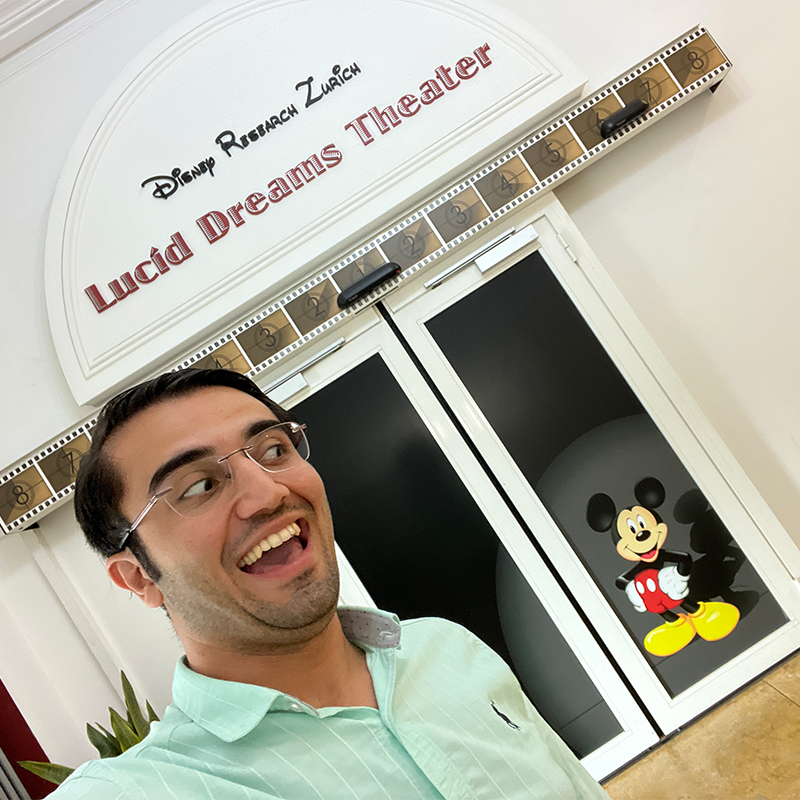
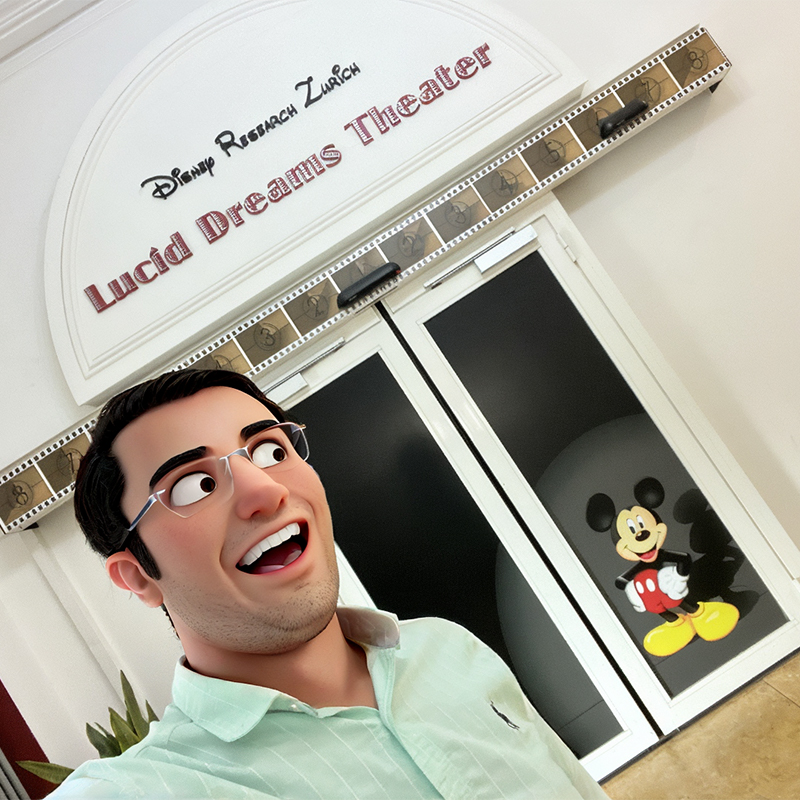
update about

diff --git a/_pages/about.md b/_pages/about.md
@@ -28,21 +28,23 @@ latest_posts:
 ---
 
 <style>
-  /* 1. Set the original RGB image as the hidden background */
   .profile {
     background-image: url('{{ "/assets/img/alireza3-orig.jpg" | relative_url }}');
-    background-size: cover;
-    background-position: center;
-    border-radius: 20px; /* This matches your YAML style */
-    overflow: hidden; /* Ensures the background stays inside the rounded corners */
+    background-size: 100% 100%; /* Forces exact 1-to-1 scaling, no cropping */
+    background-position: top left; /* Aligns perfectly with the top-left of the img tag */
+    background-repeat: no-repeat;
+    border-radius: 20px; 
+    overflow: hidden; 
+    padding: 0; /* Ensures no internal spacing offsets the background */
   }
 
-  /* 2. Add a smooth transition to the generated image */
   .profile img {
+    display: block; /* Kills the invisible gap beneath the image */
+    width: 100%; 
+    height: auto;
     transition: opacity 0.4s ease-in-out;
   }
 
-  /* 3. On hover, fade out the generated image to reveal the original! */
   .profile:hover img {
     opacity: 0;
   }
@@ -82,7 +84,7 @@ I'm open to Research Engineer roles and PhD opportunities in CG, 3D Vision, HCI,
     mix-blend-mode: multiply; 
     /* filter: grayscale(100%) opacity(70%);  */
     /* transition: all 0.3s ease; */
-    margin: 10px 1.5rem; /* This is the magic! It forces exactly 1.5rem of space between every logo */
+    margin: 10px 1rem; /* This is the magic! It forces exactly 1.5rem of space between every logo */
   }
   
   .affiliation-logo:hover {
@@ -93,7 +95,7 @@ I'm open to Research Engineer roles and PhD opportunities in CG, 3D Vision, HCI,
 <div class="d-flex flex-wrap justify-content-center align-items-center mt-4 mb-5">
     {% include figure.liquid loading="eager" path="assets/img/logos/disney.png" class="affiliation-logo" %}
     {% include figure.liquid loading="eager" path="assets/img/logos/uds.png" class="affiliation-logo" %}
-    {% include figure.liquid loading="eager" path="assets/img/logos/epfl.png" class="affiliation-logo" %}
+    {% include figure.liquid loading="eager" path="assets/img/logos/epfl.png" class="affiliation-logo" style="max-height: 35px;" %}
     {% include figure.liquid loading="eager" path="assets/img/logos/mbti.png" class="affiliation-logo" %}
     {% include figure.liquid loading="eager" path="assets/img/logos/mpi-inf.png" class="affiliation-logo" %}
 </div>
